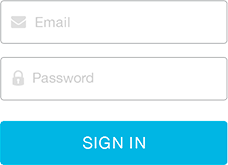
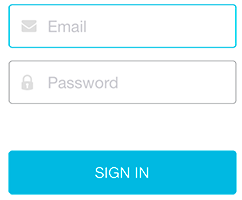
more demo...

diff --git a/ios/Theme-iOS7/LoginView_ios7.swift b/ios/Theme-iOS7/LoginView_ios7.swift
@@ -15,8 +15,25 @@ import UIKit
 
 class LoginView_ios7: LoginView {
 
+	@IBOutlet var titleLabel: UILabel?
+	@IBOutlet var subtitleLabel: UILabel?
 	@IBOutlet var usernamePlaceholder: UILabel?
 	@IBOutlet var passwordPlaceholder: UILabel?
+
+	override public func setTranslations(bundle:NSBundle) {
+		super.setTranslations(bundle)
+
+		titleLabel!.text = NSLocalizedString("theme-ios7-login-title", tableName: "ios7", bundle: bundle, value: "", comment: "")
+		subtitleLabel!.text = NSLocalizedString("theme-ios7-login-subtitle", tableName: "ios7", bundle: bundle, value: "", comment: "")
+		usernamePlaceholder!.text = NSLocalizedString("theme-ios7-login-email", tableName: "ios7", bundle: bundle, value: "", comment: "")
+		passwordPlaceholder!.text = NSLocalizedString("theme-ios7-login-password", tableName: "ios7", bundle: bundle, value: "", comment: "")
+
+		let str = loginButton!.attributedTitleForState(UIControlState.Normal)
+		let translated = NSLocalizedString("theme-ios7-login-login", tableName: "ios7", bundle: bundle, value: "", comment: "")
+		let newStr = NSMutableAttributedString(attributedString: str)
+		newStr.replaceCharactersInRange(NSMakeRange(0, str.length), withString:translated)
+		loginButton!.setAttributedTitle(newStr, forState: UIControlState.Normal)
+	}
 
 	func textField(textField: UITextField!, shouldChangeCharactersInRange range: NSRange, replacementString string: String!) -> Bool {
 
@@ -31,29 +48,13 @@ class LoginView_ios7: LoginView {
 	}
 
 	private func showPlaceholder(placeholder:UILabel, show:Bool) {
-		UIView.animateWithDuration(0.3, animations: {
+		UIView.animateWithDuration(0.4, animations: {
 			placeholder.alpha = show ? 1.0 : 0.0
 		})
 	}
 
 	override func setAuthType(authType: String) {
 		super.setAuthType(authType)
-
-		usernameField!.text = "";
-
-		if usernameField!.text != "" {
-			usernamePlaceholder!.text = ""
-		}
-		else {
-			usernamePlaceholder!.text = usernameField!.placeholder;
-		}
-
-		if passwordField!.text != "" {
-			passwordPlaceholder!.text = ""
-		}
-		else {
-			passwordPlaceholder!.text = passwordField!.placeholder;
-		}
 
 		usernameField!.placeholder = "";
 		passwordField!.placeholder = "";
